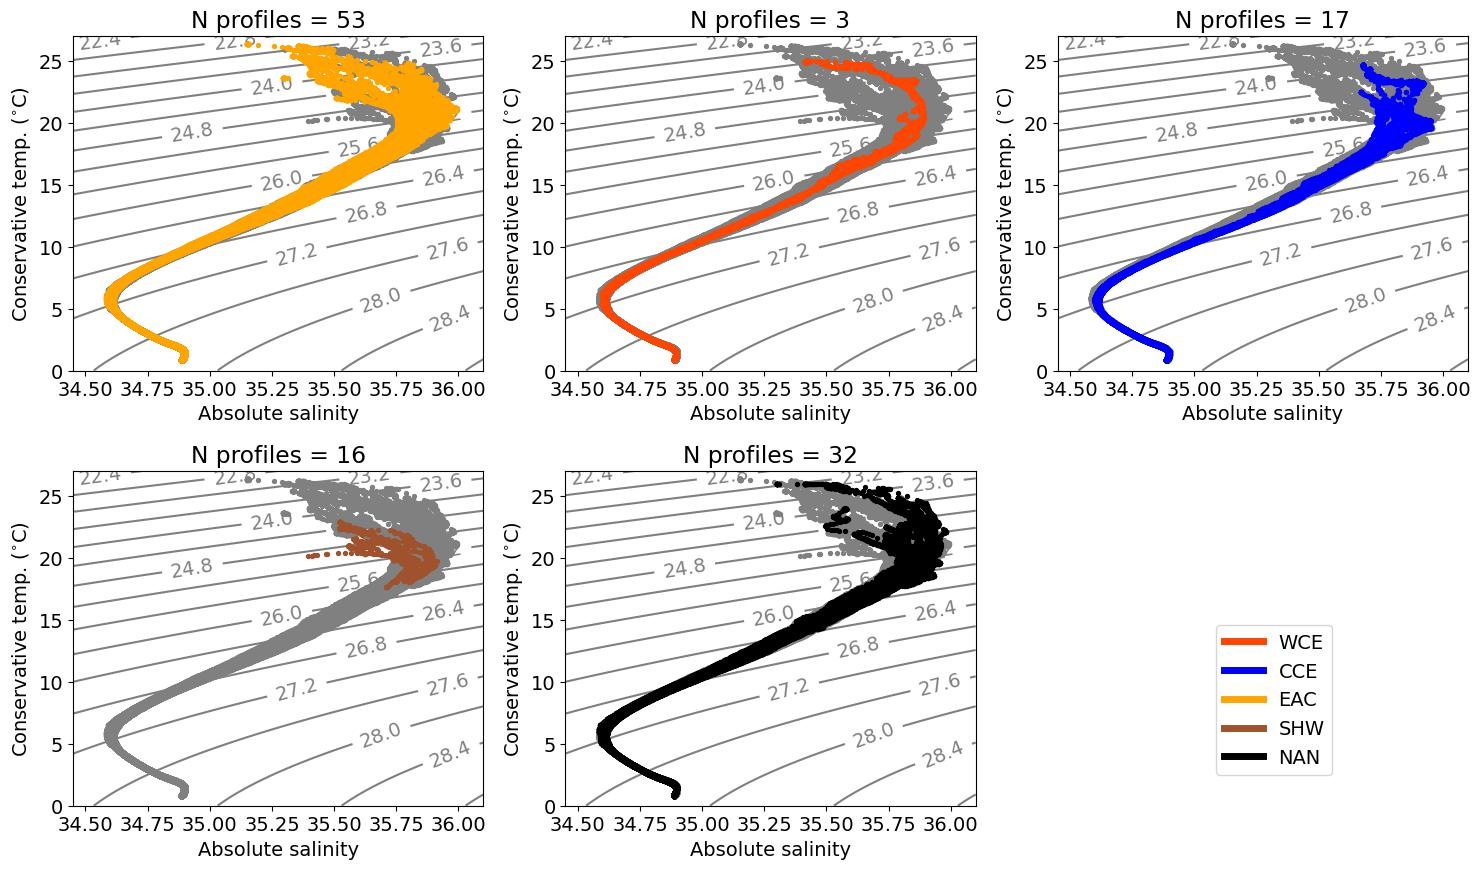
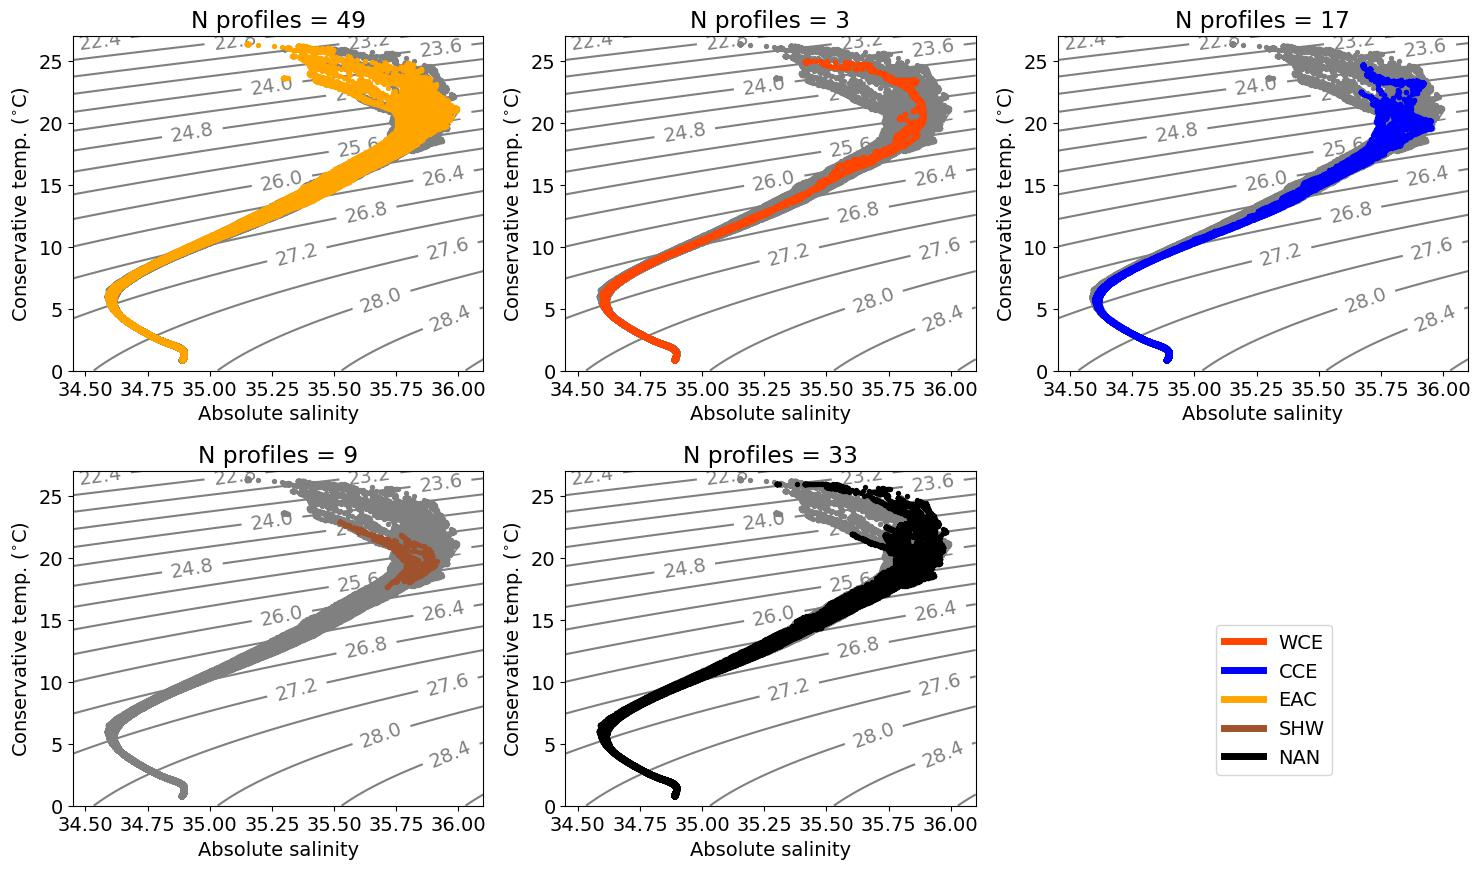
ts with new oxy colorbar+zoom of surface

diff --git a/src/ts_classification.py b/src/ts_classification.py
@@ -1,3 +1,4 @@
+import cmocean
 import glob
 import gsw
 import matplotlib.gridspec as gs
@@ -7,7 +8,7 @@ import xarray as xr
 from matplotlib.lines import Line2D
 plt.rcParams['font.size'] = 14
 
-tags = xr.open_mfdataset(glob.glob('data/CTD_data/*.nc')[:4], combine = 'nested')
+tags = xr.open_mfdataset(glob.glob('data/CTD_data/*.nc'), combine = 'nested')
 tags = tags.rename({'__xarray_dataarray_variable__': 'Class'})
 clr = dict({'EAC':'orange', 'WCE':'orangered', 'CCE':'b', 
             'SHW':'sienna', 'NAN':'k'})
@@ -42,26 +43,56 @@ fig, axs = figure()
 ass_axs = dict({'EAC':0, 'WCE':1, 'CCE':2, 'SHW':3, 'NAN':4})
 n = dict({'EAC':0, 'WCE':0, 'CCE':0, 'SHW':0, 'NAN':0})
 for i in range(0, len(tags['profile']), 1):
-    data = xr.open_dataset('data/CTD_data/'+tags['profile'][i].item()[:10]+ \
+    data = xr.open_dataset('data/CTD_data/'+tags['profile'][i].item()[:10].upper()+ \
                              '/'+tags['profile'][i].item()+'.nc')
+    if data['longitude'][0] > 152 and data['longitude'][0] < 158:
+        if data['latitude'][0] > -32 and data['latitude'][0] < -25:
 
-    sa = gsw.SA_from_SP(data['salinity'], data['pressure'], 
-                        data['longitude'], data['latitude'])
-    ct = gsw.CT_from_t(sa, data['temperature'], data['pressure'])
+            sa = gsw.SA_from_SP(data['salinity'], data['pressure'], 
+                                data['longitude'], data['latitude'])
+            ct = gsw.CT_from_t(sa, data['temperature'], data['pressure'])
 
-    profile_class = tags.isel(profile=i)['Class'].values.item()
+            profile_class = tags.isel(profile=i)['Class'].values.item()
 
-    axs[ass_axs[profile_class]].scatter(sa, ct, color = clr[profile_class],
-                                        s = 8, zorder=2);
-    n[profile_class] = n[profile_class] + 1
-    for ax in axs:
-        if ax != axs[ass_axs[profile_class]]:
-            ax.scatter(sa, ct, color = 'grey', s = 8, zorder=1);
-    
+            axs[ass_axs[profile_class]].scatter(sa, ct, color = clr[profile_class],
+                                                s = 8, zorder=2);
+            n[profile_class] = n[profile_class] + 1
+            for ax in axs:
+                if ax != axs[ass_axs[profile_class]]:
+                    ax.scatter(sa, ct, color = 'grey', s = 8, zorder=1);
+            
 for title in ['EAC', 'WCE', 'CCE', 'SHW', 'NAN']:
     axs[ass_axs[title]].set_title('N profiles = '+str(n[title]))
 fig.legend(handles = legend_elements, bbox_to_anchor = (.83, .3));
 plt.savefig('results/ts_auto_classification.jpg', bbox_inches = 'tight')
+
+fig, axs = figure()
+# Assign each axs to a different class
+ass_axs = dict({'EAC':0, 'WCE':1, 'CCE':2, 'SHW':3, 'NAN':4})
+n = dict({'EAC':0, 'WCE':0, 'CCE':0, 'SHW':0, 'NAN':0})
+for i in range(0, len(tags['profile']), 1):
+    data = xr.open_dataset('data/CTD_data/'+tags['profile'][i].item()[:10].upper()+ \
+                                '/'+tags['profile'][i].item()+'.nc')
+    if data['longitude'][0] > 152 and data['longitude'][0] < 158:
+        if data['latitude'][0] > -32 and data['latitude'][0] < -25:
+
+            sa = gsw.SA_from_SP(data['salinity'], data['pressure'], 
+                        data['longitude'].mean(), data['latitude'].mean())
+            ct = gsw.CT_from_t(sa, data['temperature'], data['pressure'])
+            ox = data['oxygen']
+            profile_class = tags.isel(profile=i)['Class'].values.item()
+
+            c = axs[ass_axs[profile_class]].scatter(sa, ct, c = ox, cmap = cmocean.cm.solar,
+                                                    vmin = 160, vmax = 210,
+                                                    s = 8, zorder=2);
+            n[profile_class] = n[profile_class] + 1
+            for ax in axs:
+                if ax != axs[ass_axs[profile_class]]:
+                    ax.scatter(sa, ct, color = 'grey', s = 8, zorder=1);
+plt.colorbar(c, cax = fig.add_axes([0.68, 0.3, 0.2, 0.05]), orientation = 'horizontal').set_label('oxy')
+for title in ['EAC', 'WCE', 'CCE', 'SHW', 'NAN']:
+    axs[ass_axs[title]].set_title(title+' - N profiles = '+str(n[title]))
+plt.savefig('results/ts_auto_classification_woxy.jpg', bbox_inches = 'tight')
 
 
 fig, axs = figure()
@@ -69,23 +100,28 @@ fig, axs = figure()
 ass_axs = dict({'EAC':0, 'WCE':1, 'CCE':2, 'SHW':3, 'NAN':4})
 n = dict({'EAC':0, 'WCE':0, 'CCE':0, 'SHW':0, 'NAN':0})
 for i in range(0, len(tags['profile']), 1):
-    data = xr.open_dataset('data/CTD_data/'+tags['profile'][i].item()[:10]+ \
-                             '/'+tags['profile'][i].item()+'.nc')
+    data = xr.open_dataset('data/CTD_data/'+tags['profile'][i].item()[:10].upper()+ \
+                                '/'+tags['profile'][i].item()+'.nc')
+    if data['longitude'][0] > 152 and data['longitude'][0] < 158:
+        if data['latitude'][0] > -32 and data['latitude'][0] < -25:
 
-    sa = gsw.SA_from_SP(data['salinity'], data['pressure'], 
+            sa = gsw.SA_from_SP(data['salinity'], data['pressure'], 
                         data['longitude'].mean(), data['latitude'].mean())
-    ct = gsw.CT_from_t(sa, data['temperature'], data['pressure'])
-    ox = data['oxygen']
-    profile_class = tags.isel(profile=i)['Class'].values.item()
+            ct = gsw.CT_from_t(sa, data['temperature'], data['pressure'])
+            ox = data['oxygen']
+            profile_class = tags.isel(profile=i)['Class'].values.item()
 
-    c = axs[ass_axs[profile_class]].scatter(sa, ct, c = ox, cmap = 'gist_ncar',
-                                            vmin = 160, vmax = 210,
-                                            s = 8, zorder=2);
-    n[profile_class] = n[profile_class] + 1
-    for ax in axs:
-        if ax != axs[ass_axs[profile_class]]:
-            ax.scatter(sa, ct, color = 'grey', s = 8, zorder=1);
+            c = axs[ass_axs[profile_class]].scatter(sa, ct, c = ox, cmap = cmocean.cm.solar,
+                                                    vmin = 160, vmax = 210,
+                                                    s = 8, zorder=2);
+            n[profile_class] = n[profile_class] + 1
+            for ax in axs:
+                if ax != axs[ass_axs[profile_class]]:
+                    ax.scatter(sa, ct, color = 'grey', s = 8, zorder=1);
+for ax in axs:
+    ax.set_ylim(15, None)
+    ax.set_xlim(34.8, None)
 plt.colorbar(c, cax = fig.add_axes([0.68, 0.3, 0.2, 0.05]), orientation = 'horizontal').set_label('oxy')
 for title in ['EAC', 'WCE', 'CCE', 'SHW', 'NAN']:
     axs[ass_axs[title]].set_title(title+' - N profiles = '+str(n[title]))
-plt.savefig('results/ts_auto_classification_woxy.jpg', bbox_inches = 'tight')
+plt.savefig('results/ts_auto_classification_woxy_surface.jpg', bbox_inches = 'tight')
